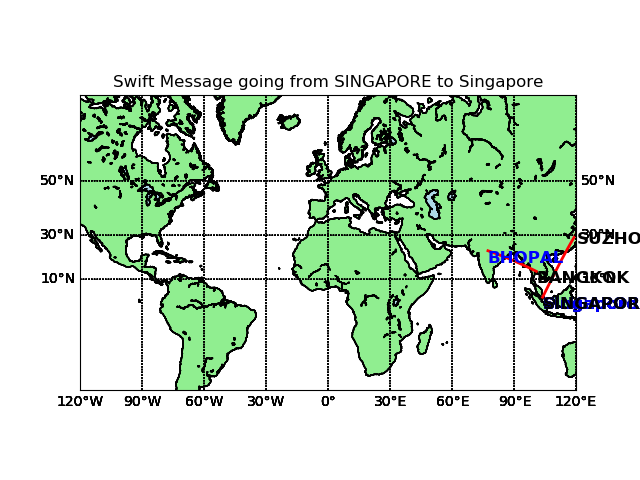
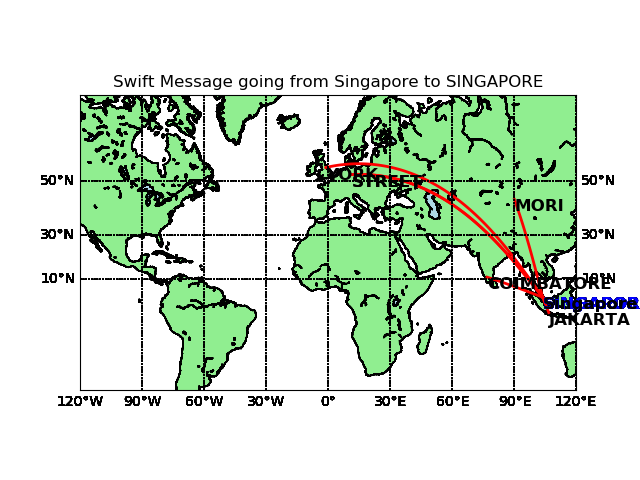
Final changes

diff --git a/geoloc.py b/geoloc.py
@@ -121,7 +121,7 @@ def plotGeoPlot(m, fromCity, toCity, fromTuple, toTuple):
     # imgplot = plt.imshow(img)
     # plt.show()
     plt.savefig("data/newimg.png")
-    plt.clf()
+    # plt.clf()
     return None
 
 
